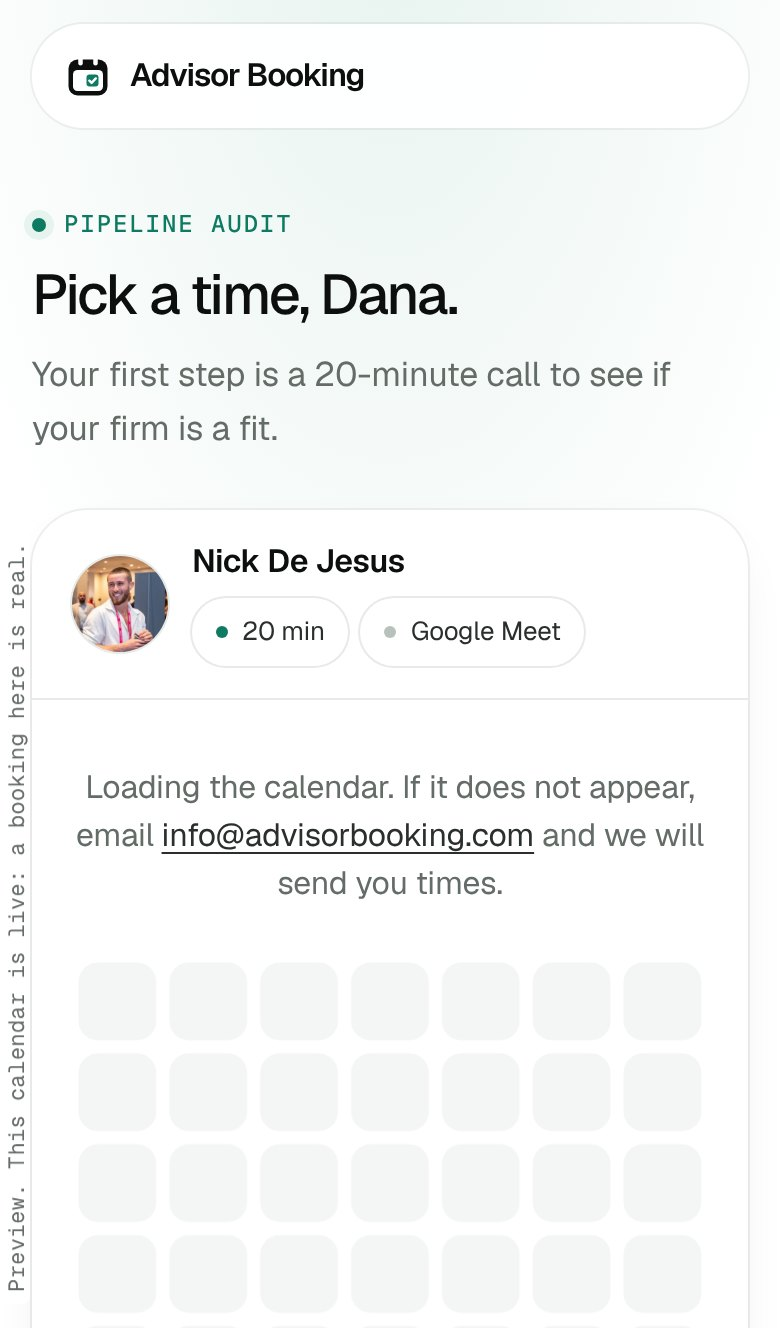
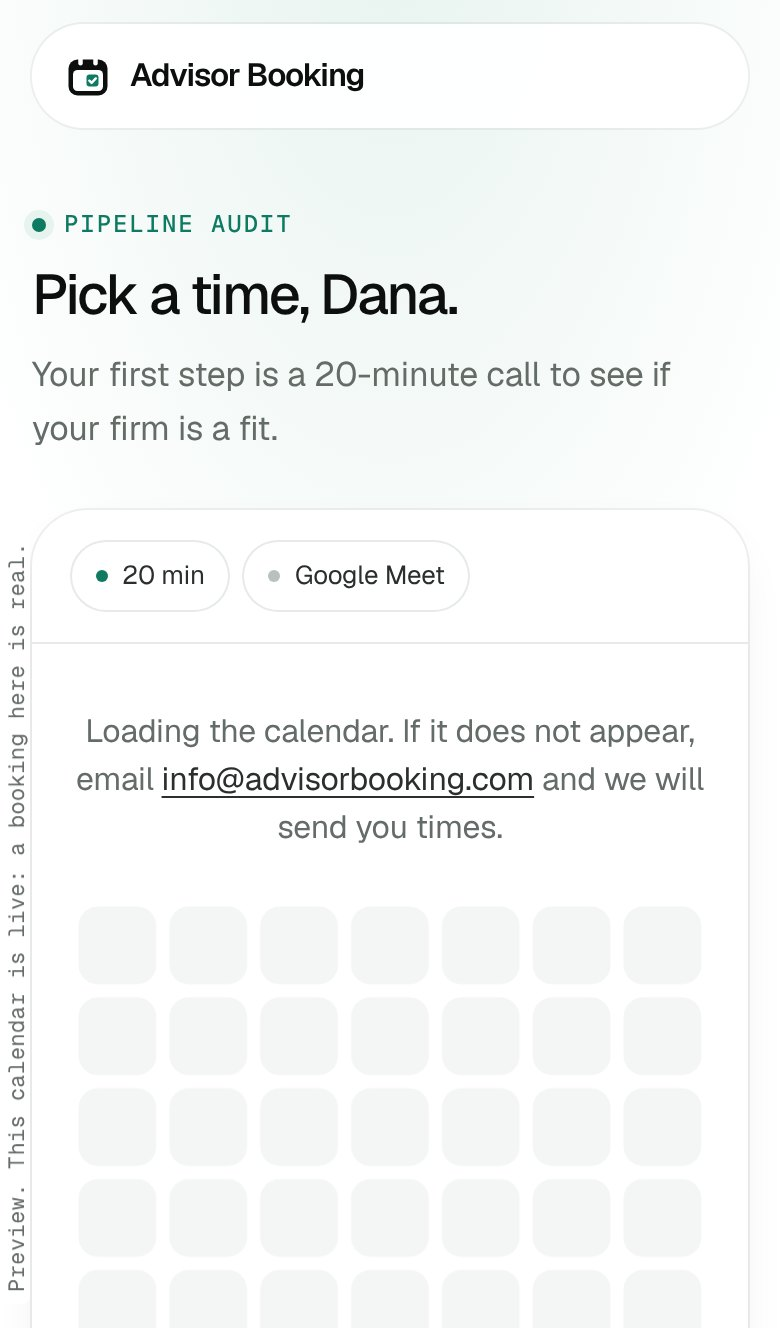
Preview route A: booking page without the photo and name
The owner picked route A and does not want his photo on the booking
page. The host strip keeps only the two chips. Preview pages only.

Claude-Session: https://claude.ai/code/session_01FR5M1xWutJxGLyeKeYnqfi

diff --git a/preview/index.html b/preview/index.html
@@ -67,7 +67,7 @@
   <div class="k-wrap">
     <section class="pv-route" aria-labelledby="ra">
       <div class="pv-route__head">
-        <div><p class="k-eyebrow">Route A</p><h2 class="k-h2 k-h2--md" id="ra">Continuation</h2><p>The home page simply carries on. Light, calm, one centred column, nothing extra. The safest choice.</p></div>
+        <div><p class="k-eyebrow">Route A · your pick</p><h2 class="k-h2 k-h2--md" id="ra">Continuation</h2><p>The home page simply carries on. Light, calm, one centred column, nothing extra. Your photo and name are off its booking page.</p></div>
         <div class="pv-links"><a class="k-btn k-btn--accent" href="a/">Open the quiz<span class="k-btn__chip"><svg viewBox="0 0 24 24" aria-hidden="true"><path d="M5 12h14M13 6l6 6-6 6"/></svg></span></a><a class="k-btn k-btn--light" href="a/book/">Booking page<span class="k-btn__chip"><svg viewBox="0 0 24 24" aria-hidden="true"><path d="M5 12h14M13 6l6 6-6 6"/></svg></span></a></div>
       </div>
       <div class="pv-shots">
@@ -79,7 +79,7 @@
 
     <section class="pv-route" aria-labelledby="rb">
       <div class="pv-route__head">
-        <div><p class="k-eyebrow">Route B</p><h2 class="k-h2 k-h2--md" id="rb">Concierge</h2><p>A person is there from the first question. A "Your call" panel shows your photo and fills in with the visitor's answers as they go, then carries those answers onto the booking page. My recommendation.</p></div>
+        <div><p class="k-eyebrow">Route B</p><h2 class="k-h2 k-h2--md" id="rb">Concierge</h2><p>A person is there from the first question. A "Your call" panel shows your photo and fills in with the visitor's answers as they go, then carries those answers onto the booking page.</p></div>
         <div class="pv-links"><a class="k-btn k-btn--accent" href="b/">Open the quiz<span class="k-btn__chip"><svg viewBox="0 0 24 24" aria-hidden="true"><path d="M5 12h14M13 6l6 6-6 6"/></svg></span></a><a class="k-btn k-btn--light" href="b/book/">Booking page<span class="k-btn__chip"><svg viewBox="0 0 24 24" aria-hidden="true"><path d="M5 12h14M13 6l6 6-6 6"/></svg></span></a></div>
       </div>
       <div class="pv-shots">

diff --git a/preview/a/book/index.html b/preview/a/book/index.html
@@ -41,13 +41,7 @@
       <p class="k-lead ra-book__sub">Your first step is a 20-minute call to see if your firm is a fit.</p>
       <section class="k-cal ra-cal" id="calendar" aria-label="Pick a time for your call">
         <header class="k-cal__bar ra-host">
-          <div class="k-person">
-            <img class="k-person__photo" src="../../../assets/nick-de-jesus.jpg" width="48" height="48" alt="Photo of Nick De Jesus">
-            <div class="k-person__body">
-              <p class="k-person__name">Nick De Jesus</p>
-              <p class="k-person__meta"><span class="k-pill">20 min</span><span class="k-pill k-pill--muted">Google Meet</span></p>
-            </div>
-          </div>
+          <p class="k-person__meta ra-host__meta"><span class="k-pill">20 min</span><span class="k-pill k-pill--muted">Google Meet</span></p>
         </header>
         <div class="k-cal__body">
           <div class="k-cal__skel"><p class="k-cal__note">Loading the calendar. If it does not appear, email <a href="mailto:info@advisorbooking.com">info@advisorbooking.com</a> and we will send you times.</p></div>

diff --git a/preview/assets/route-a.css b/preview/assets/route-a.css
@@ -102,3 +102,5 @@
 .ra-quiz .lp-lbl,.ra-quiz .lp-err,.ra-cal .k-cal__foot{font-size:16px}
 @media (min-width:700px) and (max-height:480px){.ra-nav{--nav-h:52px}.ra-main{padding-top:12px}.ra-eyebrow{margin-top:16px}.ra-quiz{margin-top:8px}.ra-quiz .ap-q{font-size:28px}.ra-quiz .ap-opts{margin-top:16px}}
 .ra-quiz .ap-next[disabled]{--c:#5f6763}
+/* The host strip without a photo or a name: the two chips only. */
+.ra-host__meta{display:flex;flex-wrap:wrap;gap:8px;margin:0}
